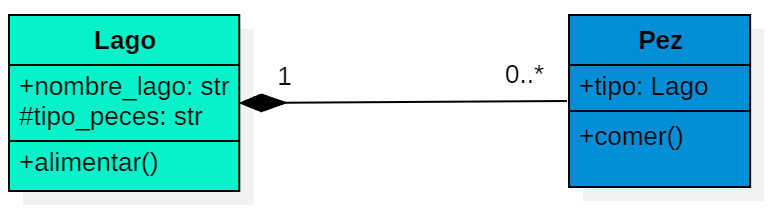
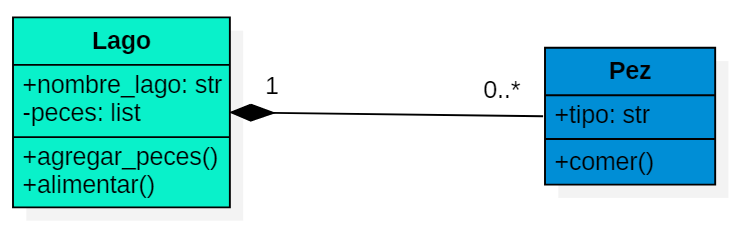
Se corrige ejercicio de composición

Changed region(s): [[0.0, 0.0553, 0.9866, 0.9124]]

diff --git a/2_relaciones/g_ejercicios/ejercicio_3/lago.py b/2_relaciones/g_ejercicios/ejercicio_3/lago.py
@@ -2,10 +2,20 @@ from pez import Pez
 
 class Lago:
     def __init__(self, nombre_lago, tipo_peces):
-        self.nombre_lago = nombre_lago
-        self.__tipo_peces = Pez(tipo_peces)
+        self.nombre = nombre_lago
+        self._peces = []
+        self._agregar_peces(tipo_peces)
+
+    def _agregar_peces(self, tipo_peces):
+        if tipo_peces:
+            for tipo_pez in tipo_peces:
+                self._peces.append(Pez(tipo_pez))
 
     def alimentar(self):
-        print(f"Alimentando peces en el lago {self.nombre_lago}")
-        self.__tipo_peces.comer()
+        if self._peces:
+            print(f"Alimentando peces en el lago {self.nombre}")
+            for pez in self._peces:
+                pez.comer()
+        else:
+            print(f"No hay peces que alimentar en el lago {self.nombre}")
 

diff --git a/2_relaciones/g_ejercicios/ejercicio_3/main.py b/2_relaciones/g_ejercicios/ejercicio_3/main.py
@@ -1,14 +1,15 @@
 from lago import Lago
 
 def main():
-    lago = Lago('Cristal', 'Bagre')
+    tipos_peces = ['bagre', 'bocachico', 'trucha']
+    lago = Lago('Cristal', tipos_peces)
 
     ###---Utilizar metodos del lago
     lago.alimentar()
 
     ###---Intentar alimentar los peces 
     try:
-        lago.__tipo_peces.comer()
+        lago._peces[0].comer()
     except Exception as e:
         print(f"Error {e}")
 
